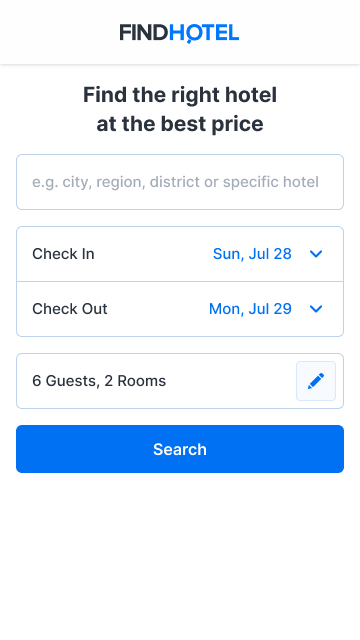
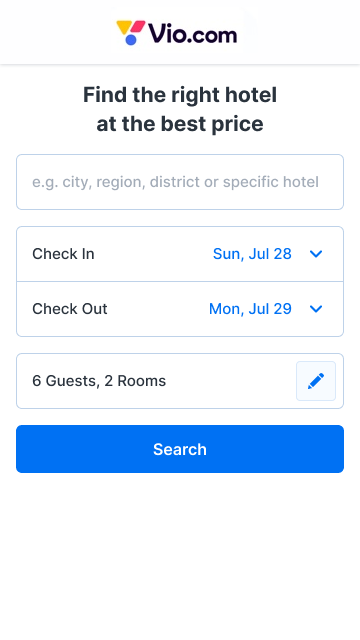
Bye FindHotel, hello Vio.com (#8)

Changed region(s): [[0.3056, 0.0312, 0.6722, 0.0938]]

diff --git a/App.tsx b/App.tsx
@@ -5,7 +5,7 @@ const App = () => (
   <View style={styles.sectionContainer}>
     <Text style={styles.title}>Welcome!</Text>
     <Text style={styles.description}>
-      This is the repository for the <Text style={styles.highlight}>FindHotel</Text>{' '}
+      This is the repository for the <Text style={styles.highlight}>Vio.com</Text>{' '}
       mobile app assignment!
     </Text>
   </View>

diff --git a/INSTRUCTIONS.md b/INSTRUCTIONS.md
@@ -1,12 +1,12 @@
-# FindHotel Mobile Application Engineer Assignment
+# Vio.com Mobile Application Engineer Assignment
 
-Thanks for applying for the Mobile Engineer position at FindHotel 🎉
+Thanks for applying for the Mobile Engineer position at Vio.com 🎉
 
 This assignment is designed to evaluate your mobile engineering skills. The focus is on technical proficiency, design implementation and cross platform aspects. It will mimic a real life feature of our future application, a Guest and Room selector.
 
 ## The assignment: Guest and Room Selector component
 
-When searching for accommodations, FindHotel customers are required to provide the number of guests and rooms for that particular stay. We use the provided information to search for available hotels based on the user's input.
+When searching for accommodations, Vio.com customers are required to provide the number of guests and rooms for that particular stay. We use the provided information to search for available hotels based on the user's input.
 
 You can make a copy of the [designs](https://www.figma.com/community/file/1134411083039491229) on Figma. Check the following screenshots to get a glimpse of the designs to build. You can focus on the Guest and Room Selector, **building the home screen is not required**.
 
@@ -71,7 +71,7 @@ These are the requirements the component need to abide to be deemed functional.
 
 ### Technology and Frameworks
 
-The list below is based on what we are currently using at FindHotel. If you have any other technologies or frameworks in mind, feel free to use them.
+The list below is based on what we are currently using at Vio.com. If you have any other technologies or frameworks in mind, feel free to use them.
 
 We kindly ask you to [document](DOCUMENTATION.md) your decisions and guide us through how to debug and run the application easily in iOS and Android simulators.
 

diff --git a/README.md b/README.md
@@ -1,6 +1,6 @@
-# FindHotel Mobile Engineer Assignment
+# Vio.com Mobile Engineer Assignment
 
-🎉 Thanks for applying for the Mobile Engineer position at FindHotel.
+🎉 Thanks for applying for the Mobile Engineer position at Vio.com.
 
 🚀 Below you will find [how to run](#how-to-run) the React Native App we've bootstrapped for you.
 
